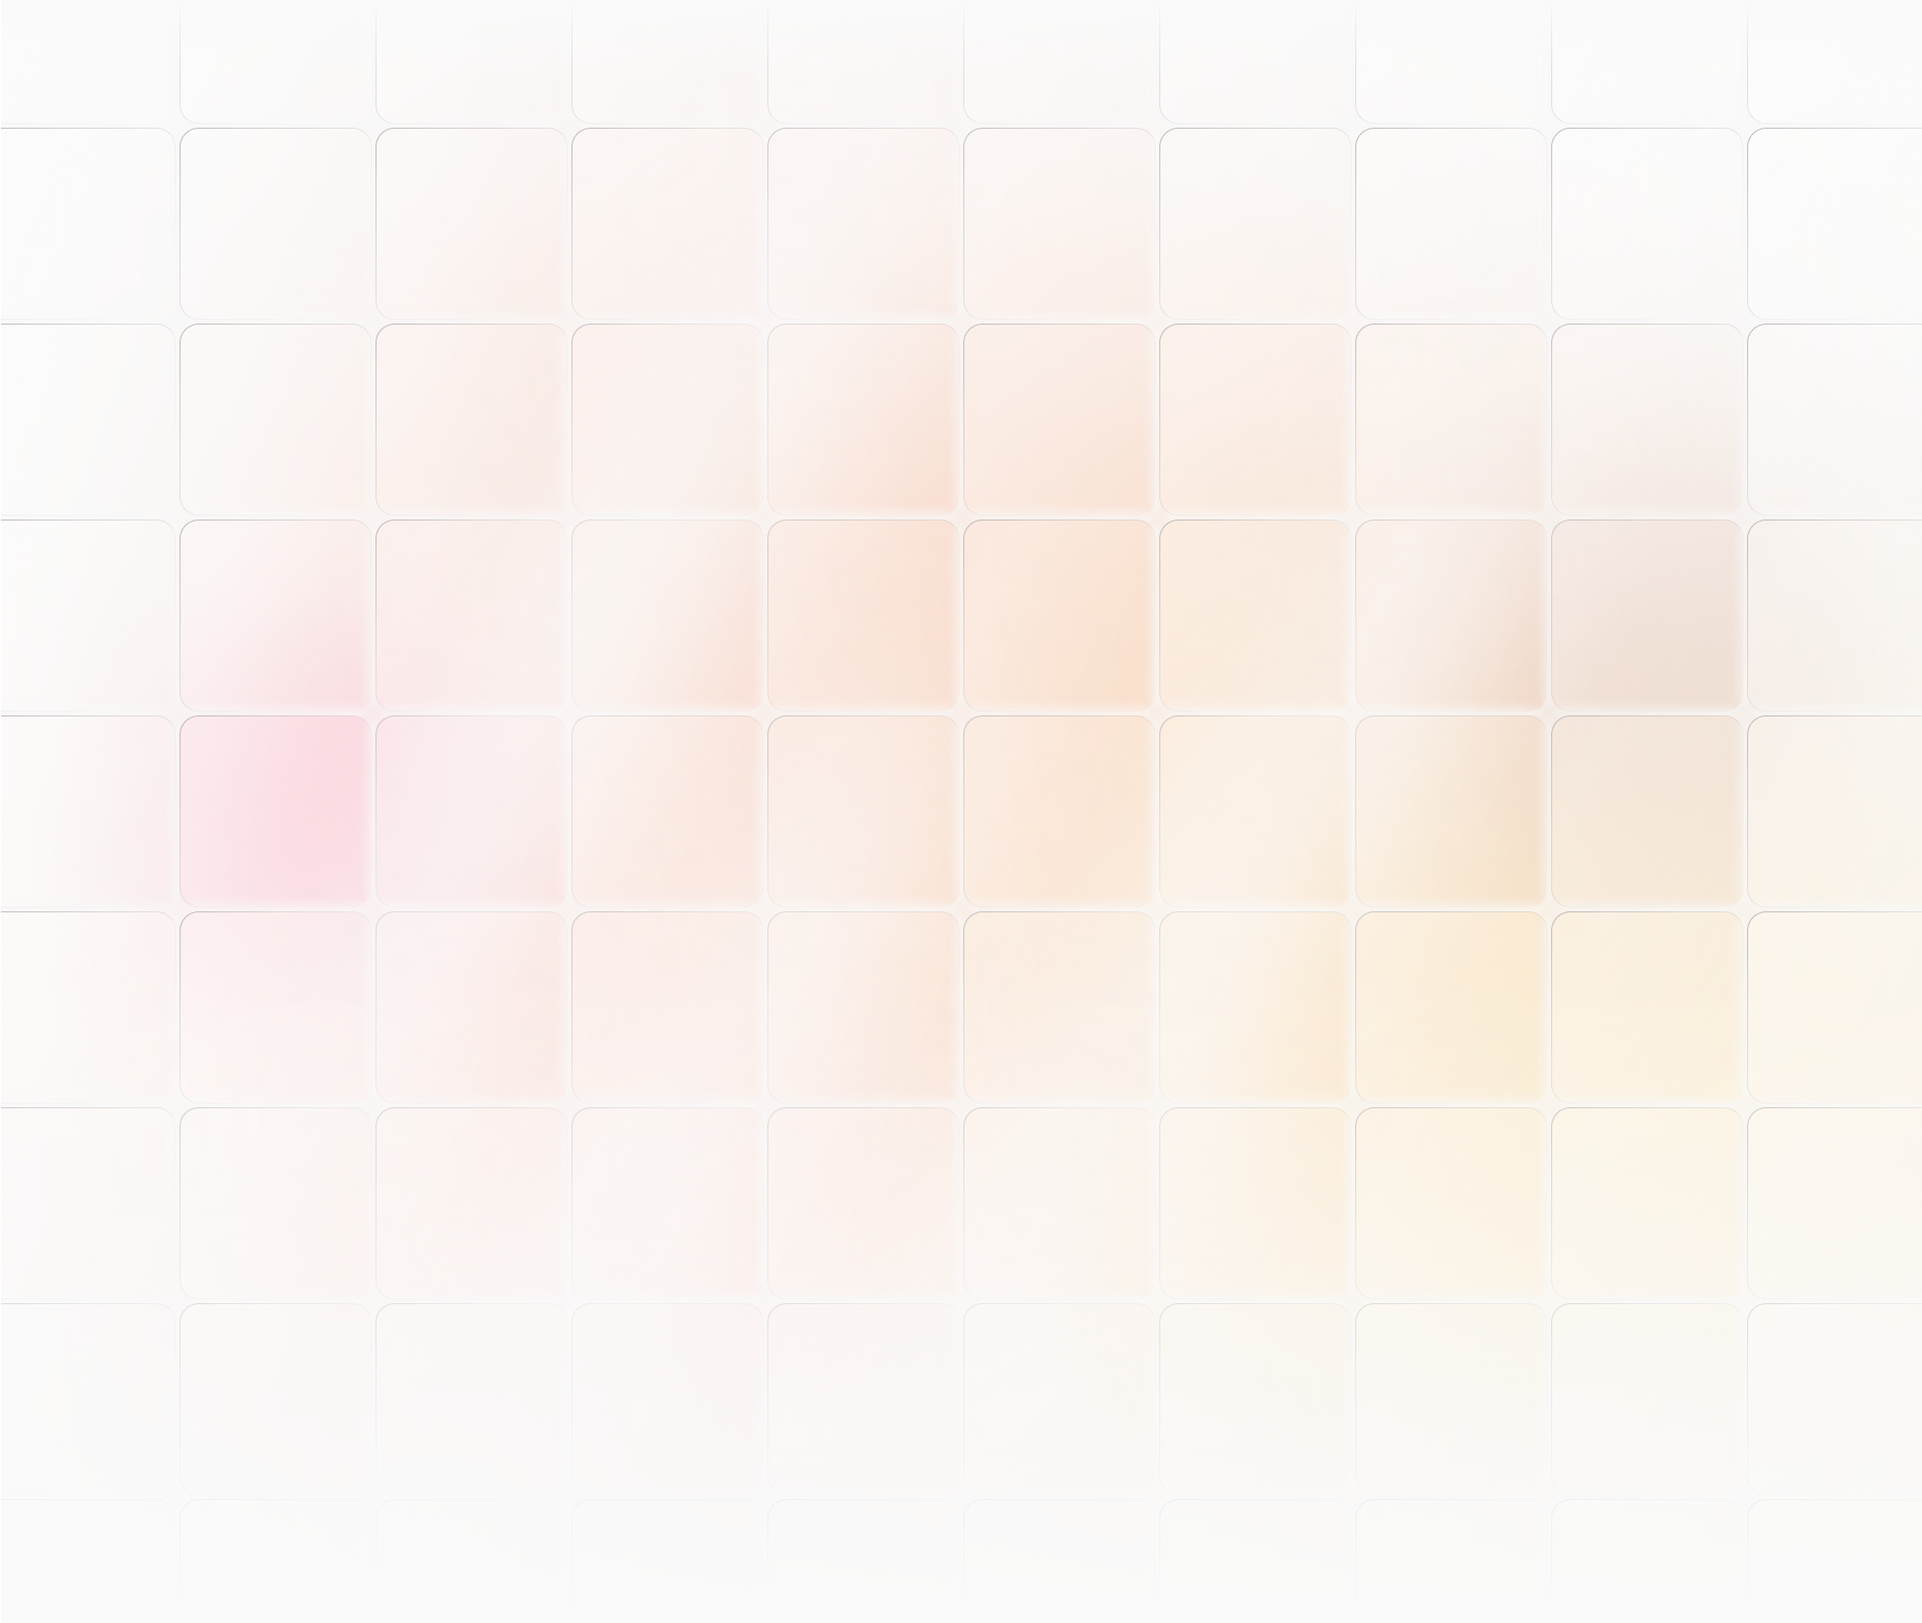
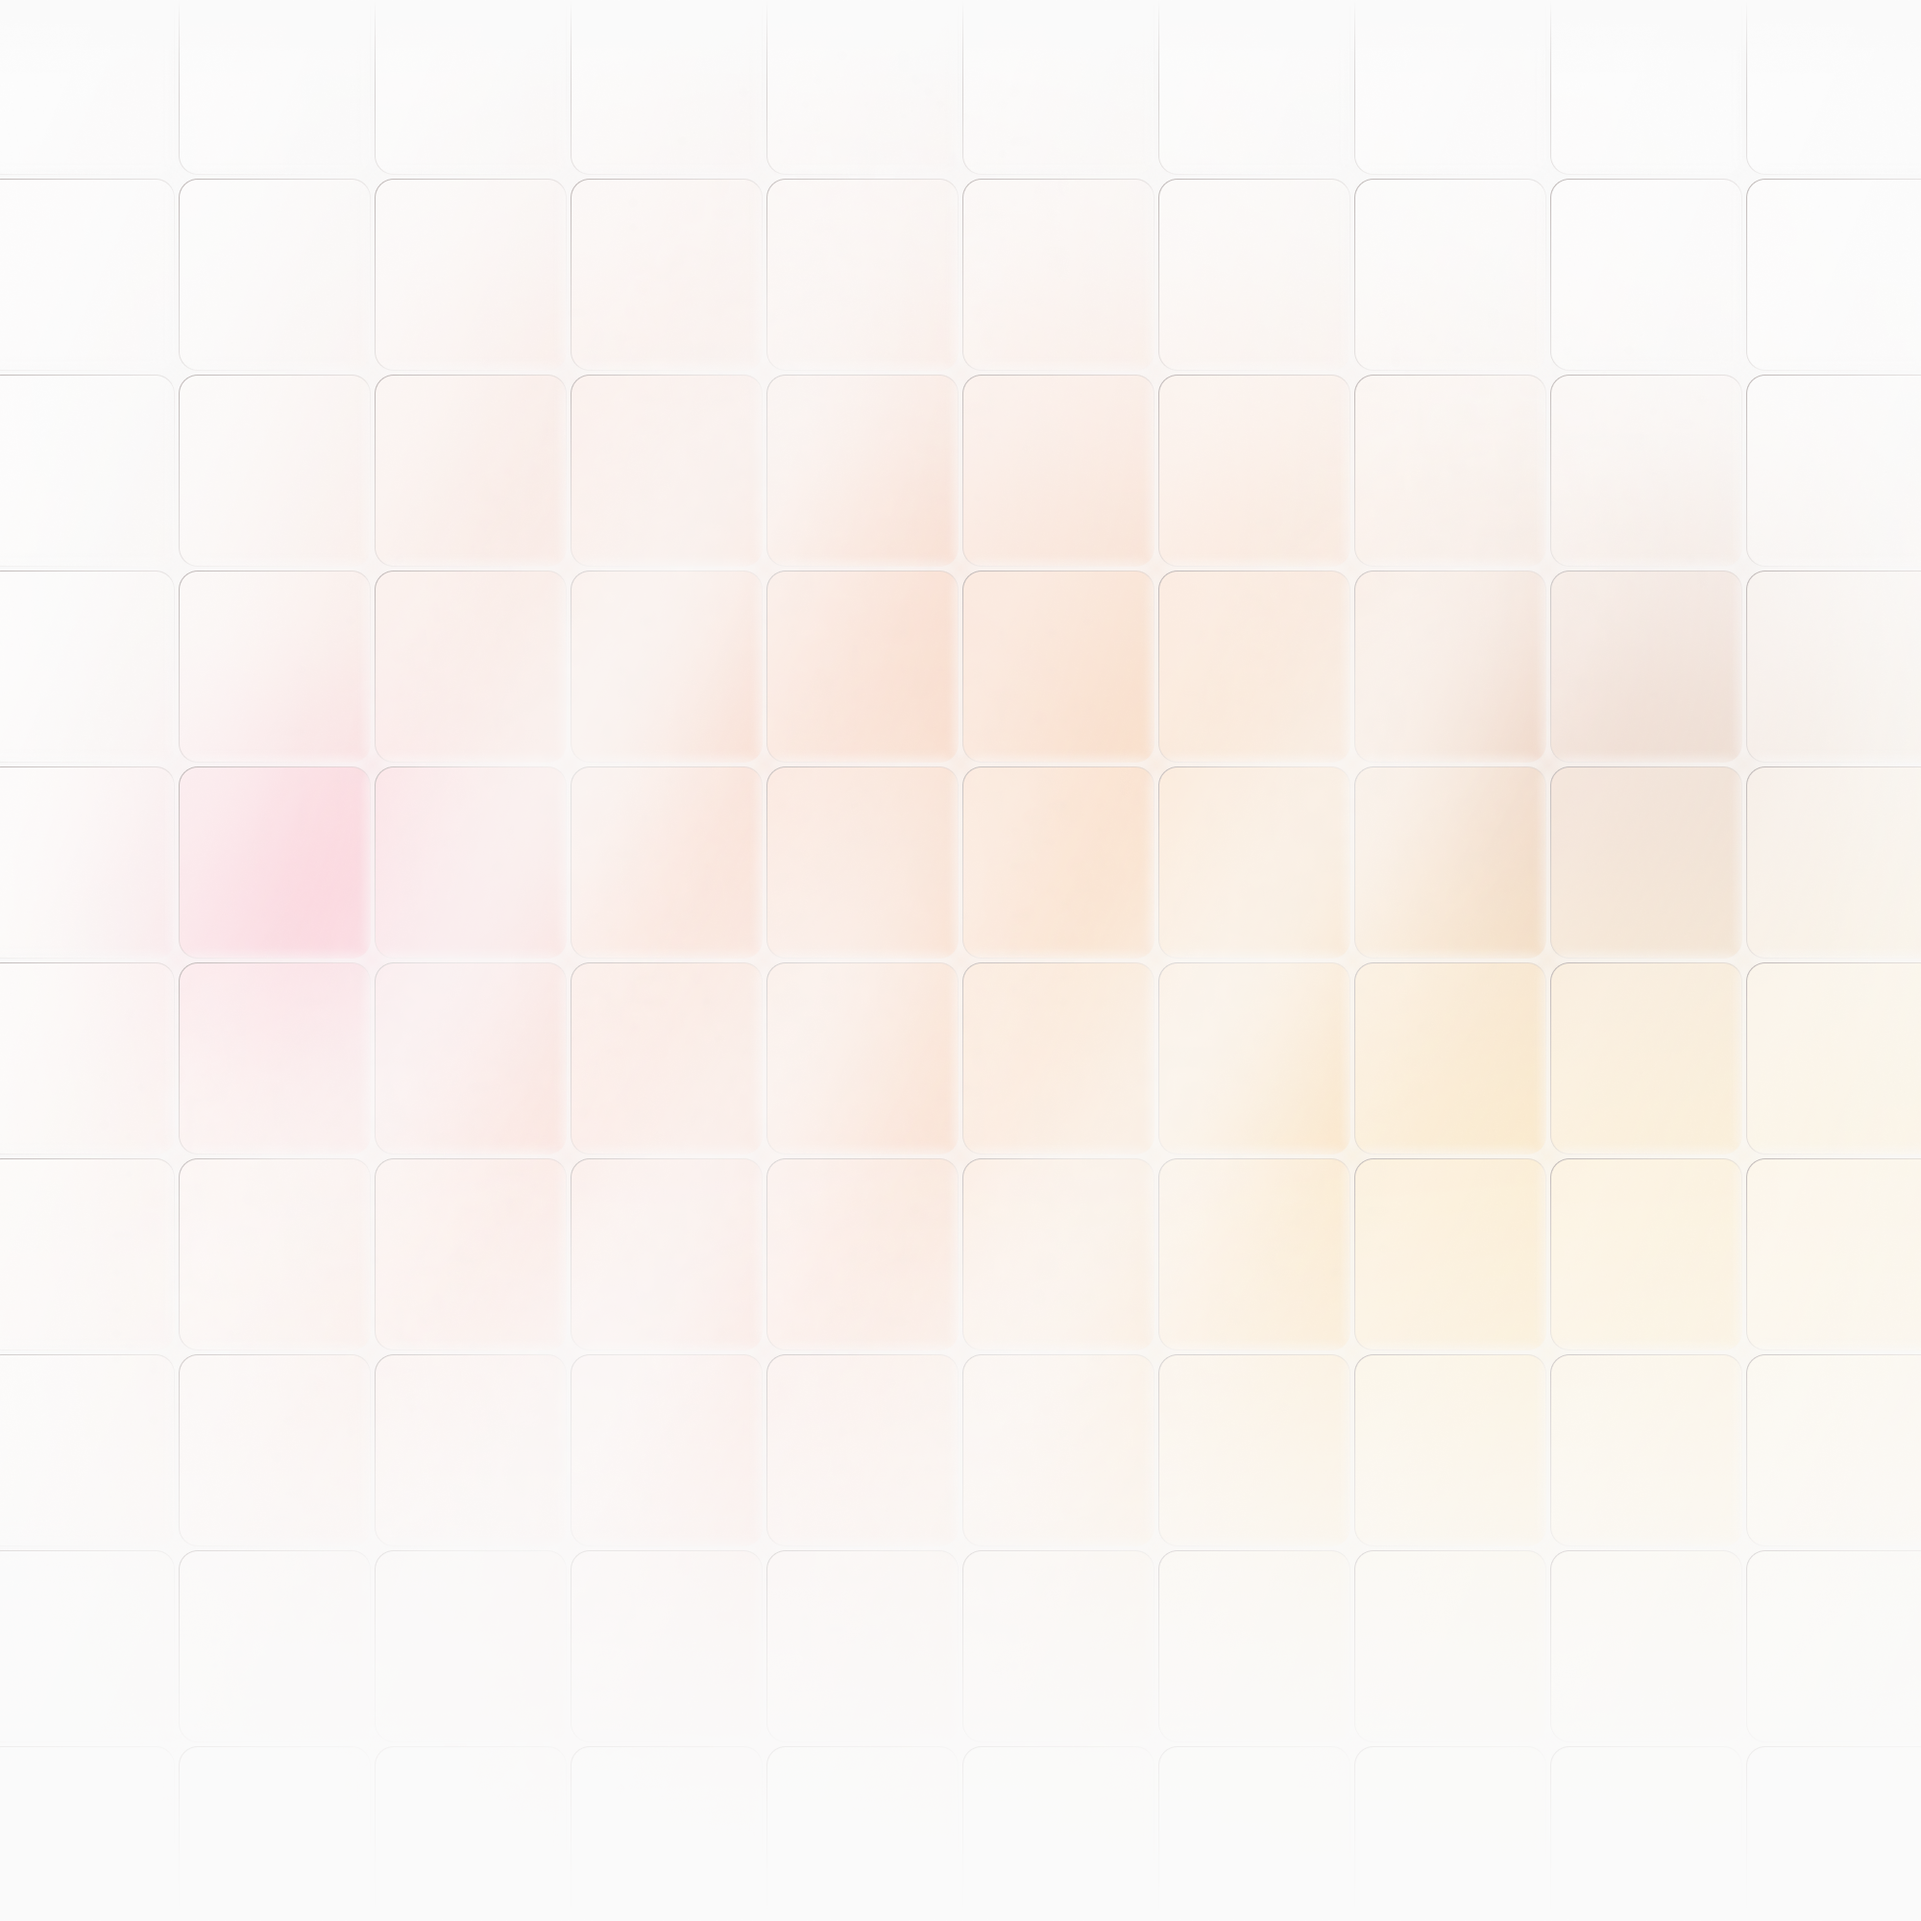
Undo new hero bg

diff --git a/src/app/page.js b/src/app/page.js
@@ -44,10 +44,10 @@ export default function Home() {
       <div
         style={{
           width: "100vw",
-          backgroundImage: "url('/hero-bgg.png')",
+          backgroundImage: "url('/testimonials-bg.png')",
           backgroundSize: "contain",
           backgroundPosition: "center",
-          backgroundRepeat: "no-repeat",
+          backgroundRepeat: "repeat",
           // backgroundAttachment: "fixed !important",
         }}
       >
